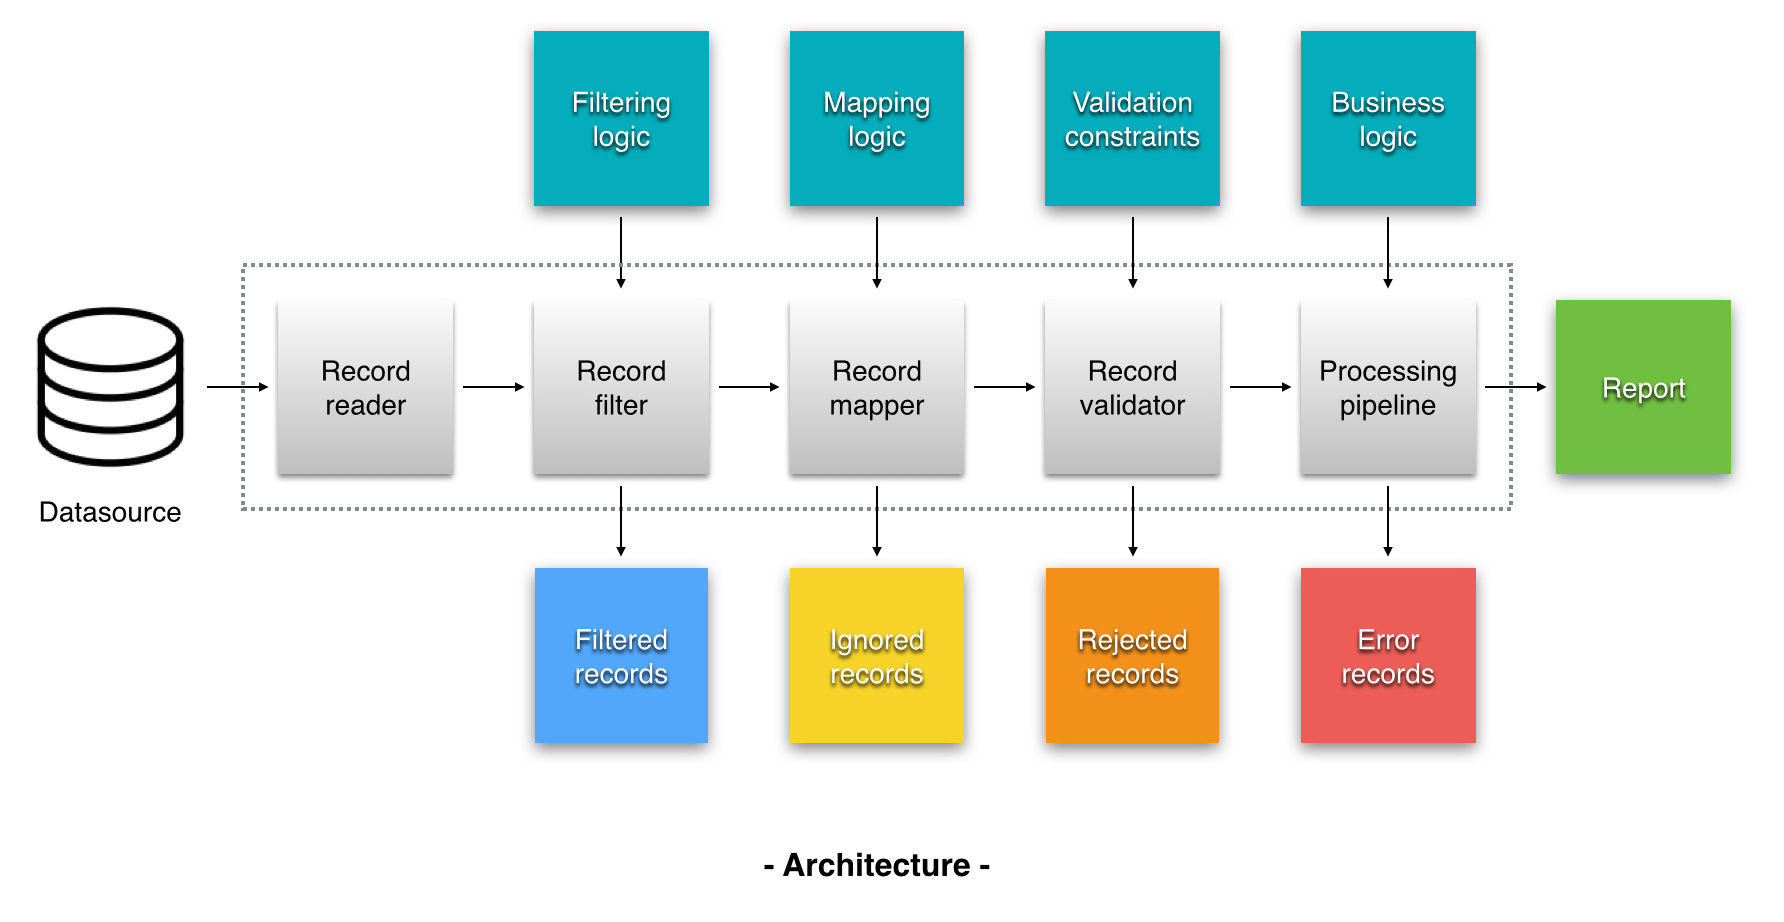
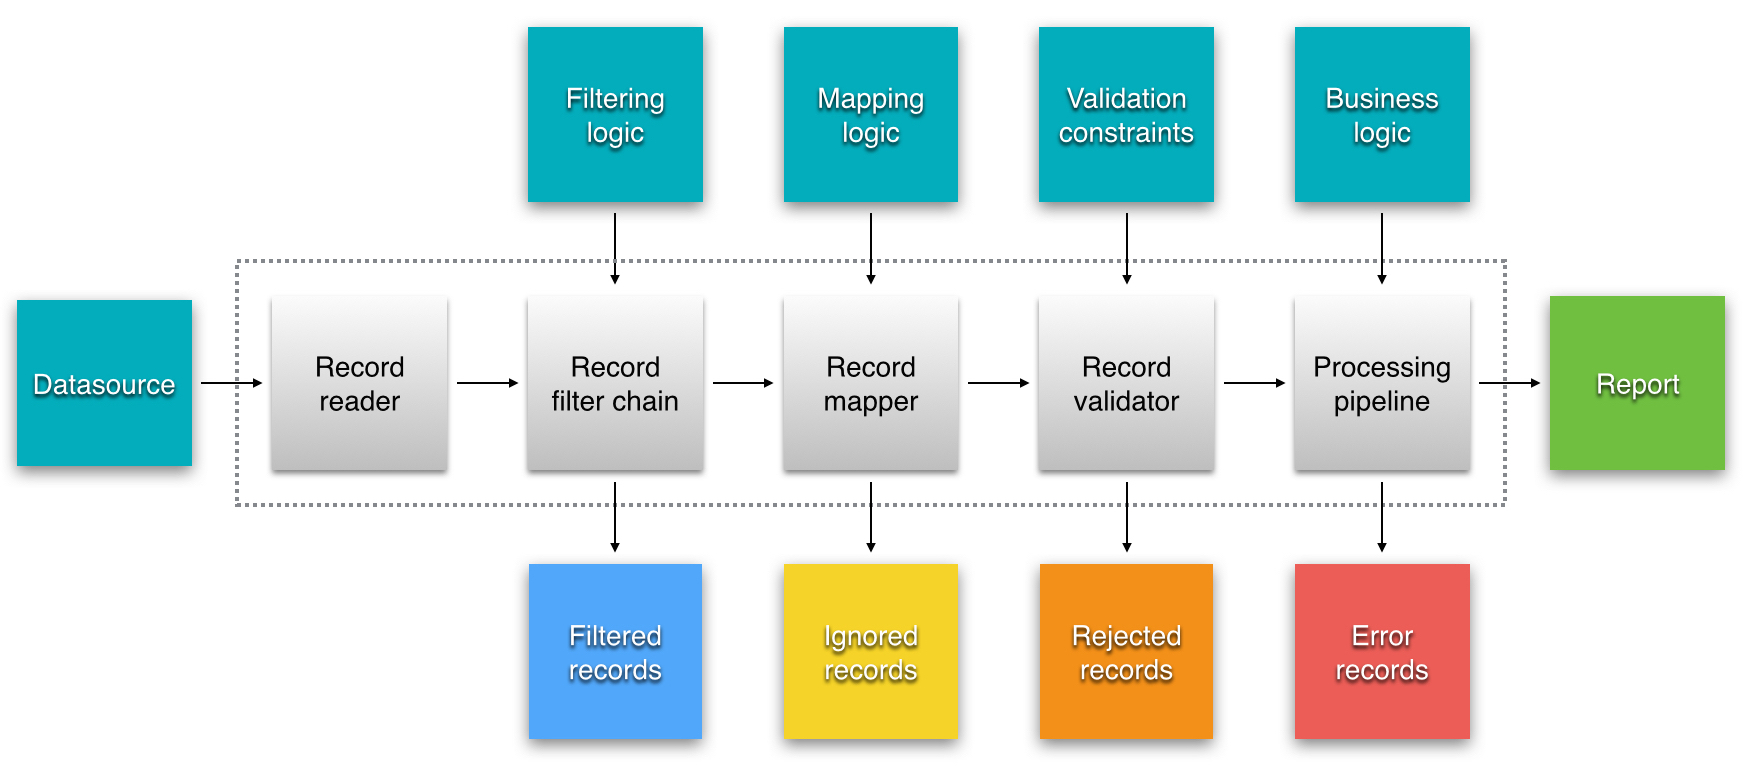
update architecture page

diff --git a/site/documentation/architecture.html b/site/documentation/architecture.html
@@ -6,8 +6,47 @@ title : Architecture
 
               <h2 id="1" >1. Framework overview</h2>
 
-              <p>The next figure describes Easy Batch main components and gives you an overview of the framework architecture:</p>
-               <br>
+        <p>This section will give you high level and detailed views of Easy Batch internals.</p>
+
+        <h3>1.1 Macroscopic view</h3>
+
+        <p>The next figure describes Easy Batch from a 10000 foot view:</p>
+
+<div class="row">
+    <div class="col-md-10 col-md-offset-1">
+        <p class="pull-center"><img class="ebi" src="../img/eb/overview.jpg"/></p>
+    </div>
+</div>
+
+        <p>Easy Batch is all about processing a data source in batch mode. You can configure its behavior in many ways.</p>
+        <p>At the end of execution, the engine gives you a report with metrics and statistics as well as a detailed log file
+        about the job run.</p>
+
+        <h3>1.2 Mesoscopic view</h3>
+
+        <p>Let's zoom in to see a bit more details about Easy Batch's internals:</p>
+
+<div class="row">
+    <div class="col-md-10 col-md-offset-1">
+        <p class="pull-center"><img class="ebi" src="../img/eb/overview-meso.jpg"/></p>
+    </div>
+</div>
+
+        <p>Data read from the data source is first submitted to a pre-processing phase. Here is where data is:</p>
+        <ul>
+            <li>Filtered to keep only relevant parts to be processed</li>
+            <li>Parsed to a specific format if necessary</li>
+            <li>Mapped to domain object</li>
+            <li>Validated according to application logic constraints</li>
+        </ul>
+
+        <p>After this pre-processing stage, the data is ready to be processed quietly. It is then submitted to a processing
+        pipeline where successive operations are performed on it.</p>
+
+        <h3>1.3 Microscopic view</h3>
+
+        <p>Let's zoom in to the third level. The next figure describes Easy Batch's main components and gives you an overview of the framework architecture:</p>
+
 <div class="row">
     <div class="col-md-10 col-md-offset-1">
         <p class="pull-center"><img class="ebi" src="../img/eb/architecture.jpg"/></p>
@@ -17,8 +56,8 @@ title : Architecture
               <p>The main components are:</p>
               <ul>
                   <li>Record Reader : reads records <em>sequentially</em> from the data source</li>
-                  <li>Record Filter : filters records to be skipped from being processed</li>
-                  <li>Record Mapper : maps records to Java objects</li>
+                  <li>Record Filter chain : a chain of filters to skip undesired records from being processed</li>
+                  <li>Record Mapper : maps records to domain objects</li>
                   <li>Record Validator : applies declared validation constraints on records</li>
                   <li>Processing pipeline : applies business processing logic for each record</li>
               </ul>
@@ -34,7 +73,8 @@ title : Architecture
             <p>At the end of execution, you get a report containing several metrics and statistics.
                 Easy Batch also gives you a detailed log about what happened in case of failure in any of these steps.</p>
 
-              <h2 id="2">2. Processing pipeline</h2>
+        <p>After a pre-processing phase (filtering, parsing, mapping and validating data), records enter the processing pipeline where they are
+        submitted to a chain of processors:</p>
 
 <div class="row">
     <div class="col-md-10 col-md-offset-1">
@@ -42,15 +82,12 @@ title : Architecture
     </div>
 </div>
 
-        <p>After a pre processing phase (filtering, parsing, mapping and validating data), records enter the processing pipeline where they are
-        submitted to a chain of processors. Record type can change from one processor to another.</p>
-
-        <p> When all the processing pipeline has been applied, the engine moves to the next record.
-        Easy Batch processes records one by one, the unix way.</p>
+        <p>Record type can change from one processor to another. When all the processing pipeline has been applied, the engine moves to the next record.
+        Easy Batch processes records one by one.</p>
 
               <h2 id="3">3. Processing workflow</h2>
 
-              <p>The workflow used internally by Easy Batch is illustrated by the next figure and described below :</p>
+              <p>The workflow used internally by Easy Batch is illustrated by the next figure and described below:</p>
 
 <div class="row">
     <div class="col-md-10 col-md-offset-1">
